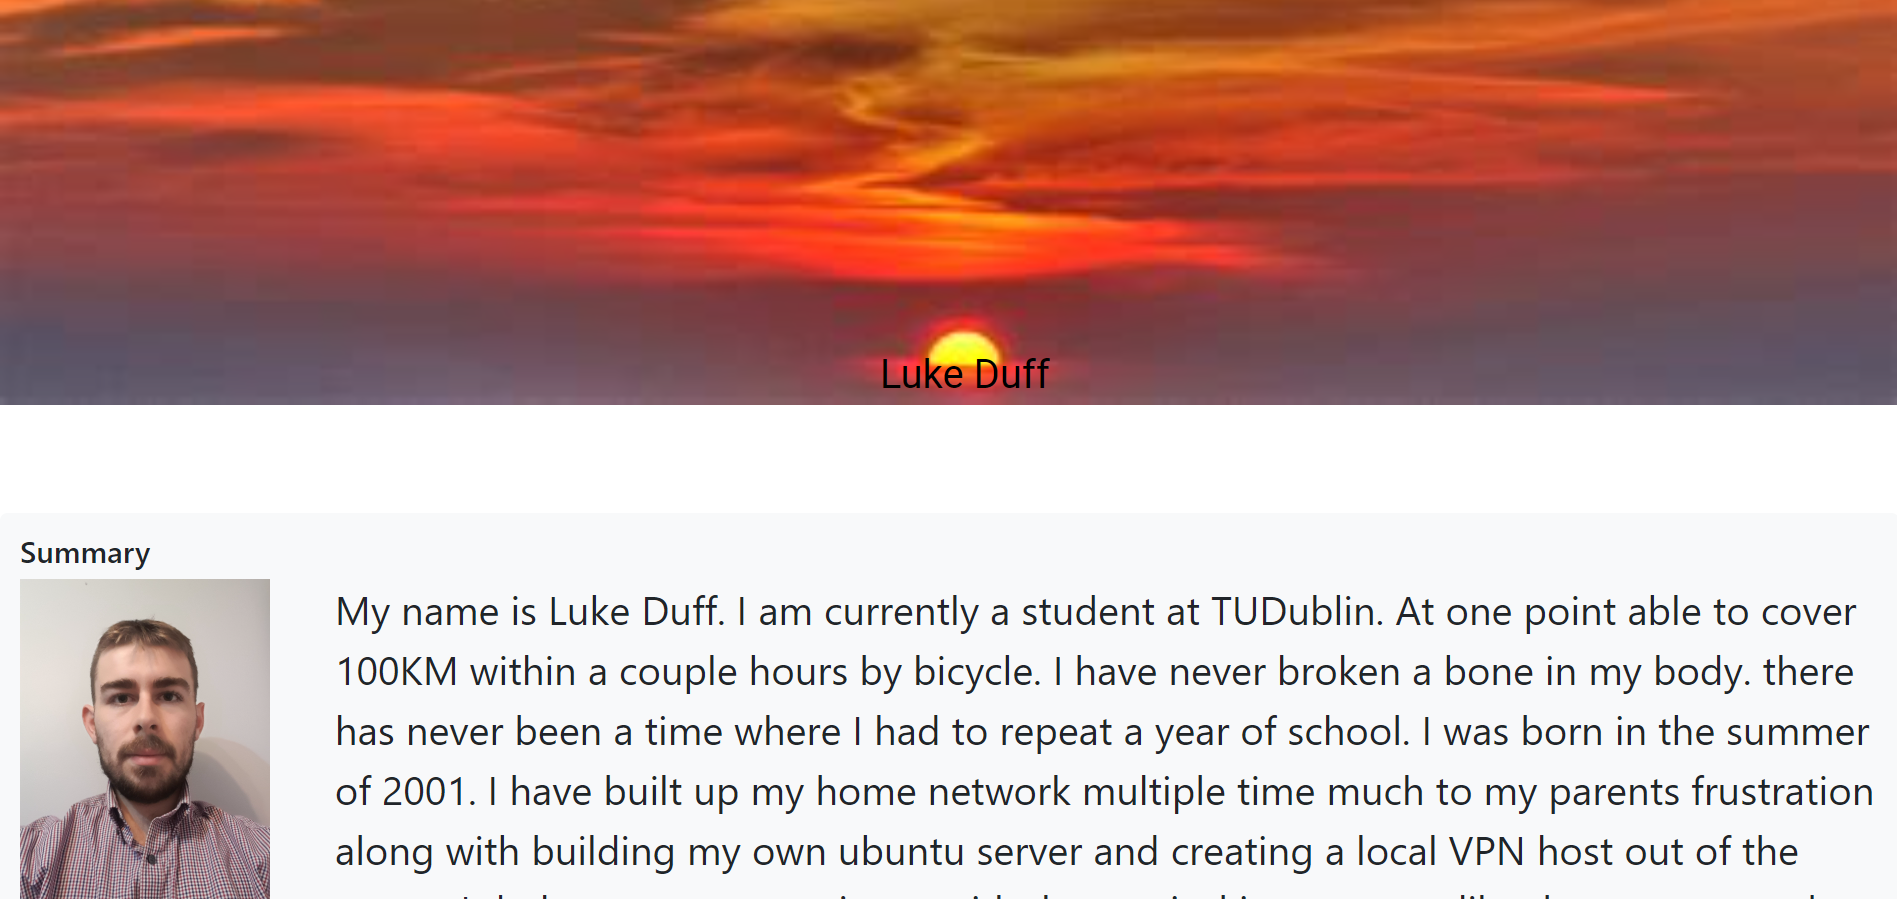
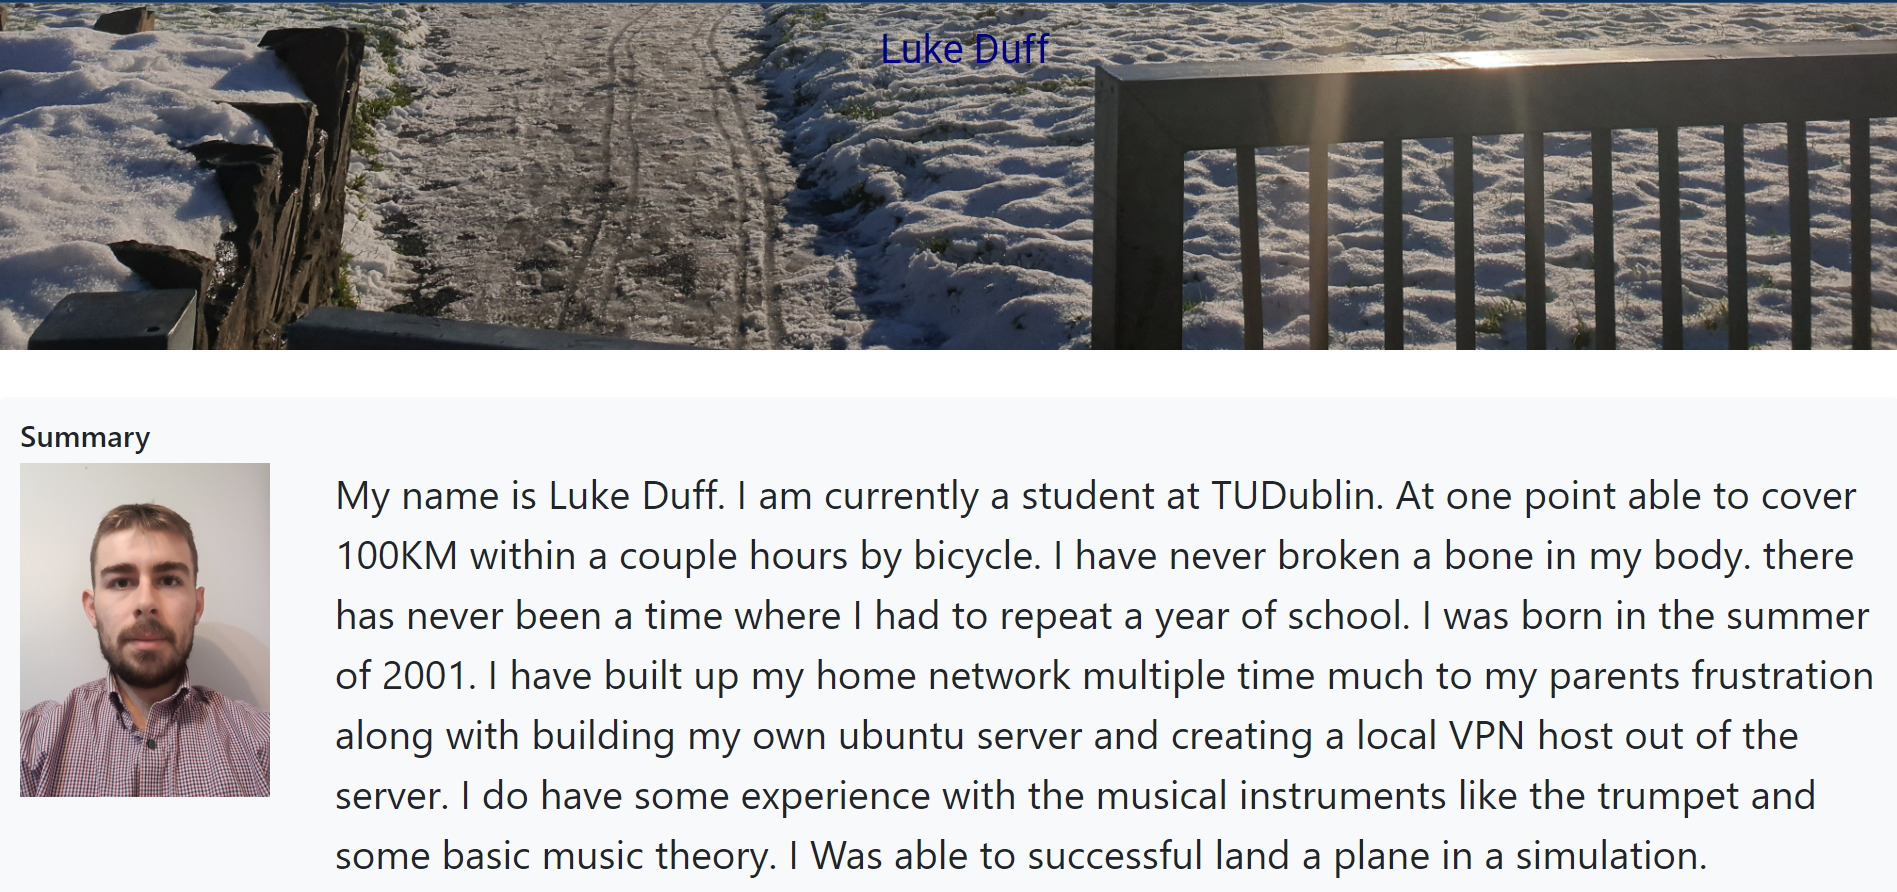
changing parts of the project

diff --git a/IMD_HTML_CV_webpage_project/index.html b/IMD_HTML_CV_webpage_project/index.html
@@ -46,7 +46,7 @@
   </nav>
   <header>
     <div id="header-image-menu">
-      <h2 id ="image-text">Luke Duff</h2>
+      <h2 id="image-text">Luke Duff</h2>
       <img src="Images/20221209_135224.jpg">
     </div>
   </header>

diff --git a/IMD_HTML_CV_webpage_project/CSS/style.css b/IMD_HTML_CV_webpage_project/CSS/style.css
@@ -12,7 +12,7 @@
  
 #image-text{
     position:absolute;
-    top: 0%;
+    top: 40%;
     left: 48.5%;
     bottom: 10%;
     right: 40%;
